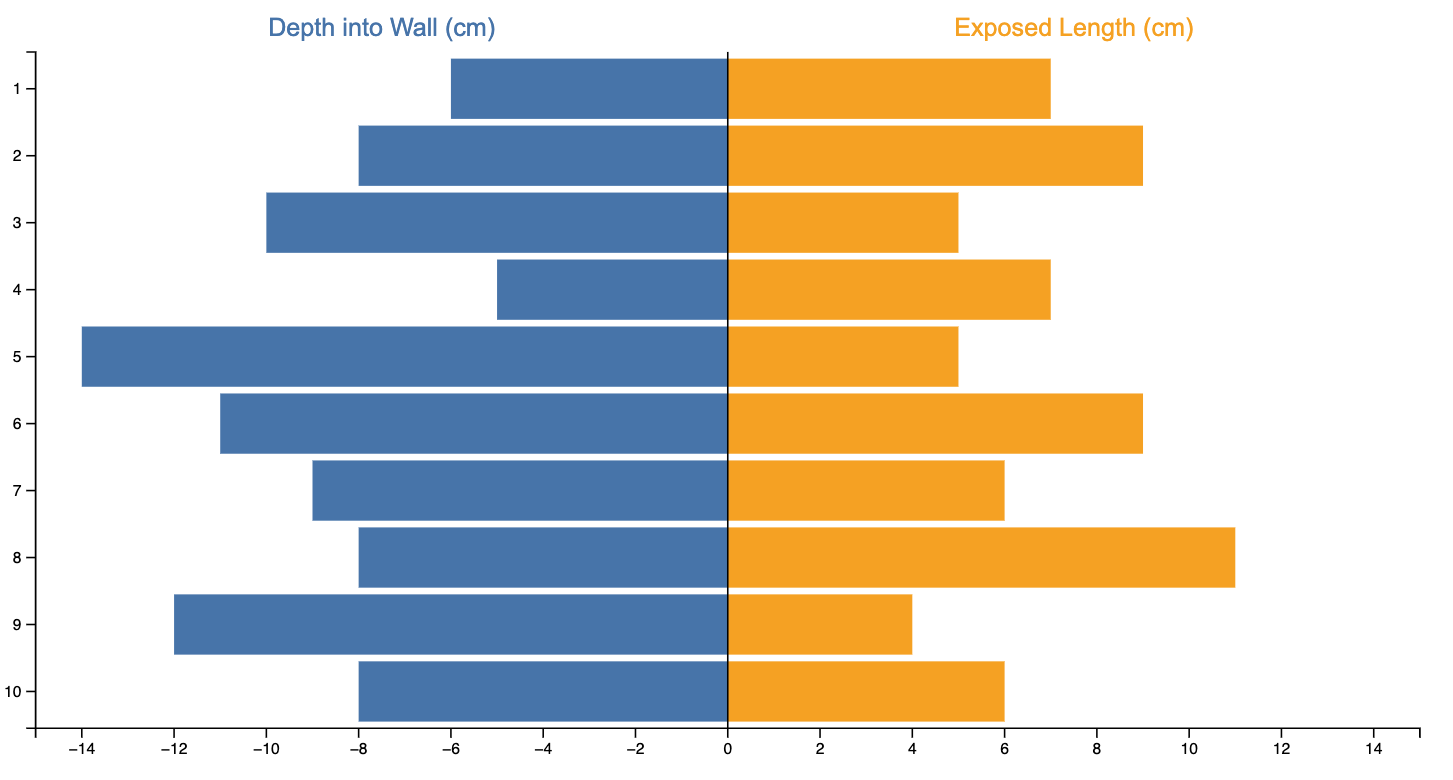
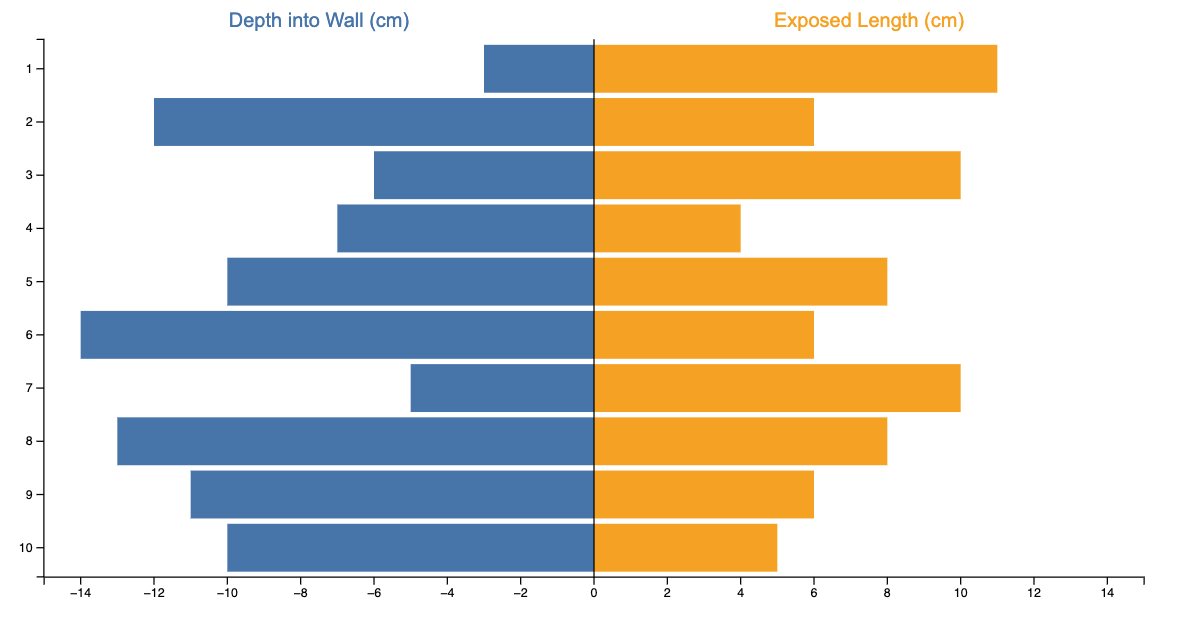
added butterfly

diff --git a/dist/bundle.js b/dist/bundle.js
@@ -10,13 +10,13 @@
 /******/ 	"use strict";
 /******/ 	var __webpack_modules__ = ({
 
-/***/ "./bar/main.ts":
-/*!*********************!*\
-  !*** ./bar/main.ts ***!
-  \*********************/
+/***/ "./butterfly/main.ts":
+/*!***************************!*\
+  !*** ./butterfly/main.ts ***!
+  \***************************/
 /***/ (function(__unused_webpack_module, exports, __webpack_require__) {
 
-eval("\nvar __createBinding = (this && this.__createBinding) || (Object.create ? (function(o, m, k, k2) {\n    if (k2 === undefined) k2 = k;\n    var desc = Object.getOwnPropertyDescriptor(m, k);\n    if (!desc || (\"get\" in desc ? !m.__esModule : desc.writable || desc.configurable)) {\n      desc = { enumerable: true, get: function() { return m[k]; } };\n    }\n    Object.defineProperty(o, k2, desc);\n}) : (function(o, m, k, k2) {\n    if (k2 === undefined) k2 = k;\n    o[k2] = m[k];\n}));\nvar __setModuleDefault = (this && this.__setModuleDefault) || (Object.create ? (function(o, v) {\n    Object.defineProperty(o, \"default\", { enumerable: true, value: v });\n}) : function(o, v) {\n    o[\"default\"] = v;\n});\nvar __importStar = (this && this.__importStar) || function (mod) {\n    if (mod && mod.__esModule) return mod;\n    var result = {};\n    if (mod != null) for (var k in mod) if (k !== \"default\" && Object.prototype.hasOwnProperty.call(mod, k)) __createBinding(result, mod, k);\n    __setModuleDefault(result, mod);\n    return result;\n};\nvar __importDefault = (this && this.__importDefault) || function (mod) {\n    return (mod && mod.__esModule) ? mod : { \"default\": mod };\n};\nObject.defineProperty(exports, \"__esModule\", ({ value: true }));\nconst d3 = __importStar(__webpack_require__(/*! d3 */ \"./node_modules/d3/src/index.js\"));\nconst phase2_json_1 = __importDefault(__webpack_require__(/*! ./phase2.json */ \"./bar/phase2.json\"));\nconst margin = { top: 20, right: 30, bottom: 40, left: 90 };\nconst width = 960 - margin.left - margin.right;\nconst height = 500 - margin.top - margin.bottom;\nconst svg = d3.select('#bar')\n    .append('svg')\n    .attr('width', width + margin.left + margin.right)\n    .attr('height', height + margin.top + margin.bottom)\n    .append('g')\n    .attr('transform', `translate(${margin.left},${margin.top})`);\n// Set the y scale based on the maximum height in the data\nconst y = d3.scaleLinear()\n    .domain([0, d3.max(phase2_json_1.default, (d) => d['Height (meters)'])])\n    .range([height, 0]);\n// Set the x scale using band scale for categorical data\nconst x = d3.scaleBand()\n    .range([0, width])\n    .domain(phase2_json_1.default.map((d) => d['Building Name']))\n    .padding(0.1);\nsvg.append('g')\n    .selectAll('rect')\n    .data(phase2_json_1.default)\n    .enter()\n    .append('rect')\n    .attr('x', (d) => x(d['Building Name']))\n    .attr('y', (d) => y(d['Height (meters)']))\n    .attr('width', x.bandwidth())\n    .attr('height', (d) => height - y(d['Height (meters)']))\n    .attr('fill', '#69b3a2');\n// Add y-axis with linear scale\nsvg.append('g')\n    .call(d3.axisLeft(y))\n    .selectAll('text')\n    .style('font-size', '14px');\n// Add x-axis with band scale\nsvg.append('g')\n    .attr('transform', `translate(0,${height})`)\n    .call(d3.axisBottom(x))\n    .selectAll('text')\n    .style('font-size', '14px')\n    .attr('y', 10)\n    .attr('x', -5)\n    .attr('dy', '.35em')\n    .attr('transform', 'rotate(0)')\n    .attr('transform', 'translate(50,0)')\n    .style('text-anchor', 'end');\n\n\n//# sourceURL=webpack://analogyvis/./bar/main.ts?");
+eval("\nvar __createBinding = (this && this.__createBinding) || (Object.create ? (function(o, m, k, k2) {\n    if (k2 === undefined) k2 = k;\n    var desc = Object.getOwnPropertyDescriptor(m, k);\n    if (!desc || (\"get\" in desc ? !m.__esModule : desc.writable || desc.configurable)) {\n      desc = { enumerable: true, get: function() { return m[k]; } };\n    }\n    Object.defineProperty(o, k2, desc);\n}) : (function(o, m, k, k2) {\n    if (k2 === undefined) k2 = k;\n    o[k2] = m[k];\n}));\nvar __setModuleDefault = (this && this.__setModuleDefault) || (Object.create ? (function(o, v) {\n    Object.defineProperty(o, \"default\", { enumerable: true, value: v });\n}) : function(o, v) {\n    o[\"default\"] = v;\n});\nvar __importStar = (this && this.__importStar) || function (mod) {\n    if (mod && mod.__esModule) return mod;\n    var result = {};\n    if (mod != null) for (var k in mod) if (k !== \"default\" && Object.prototype.hasOwnProperty.call(mod, k)) __createBinding(result, mod, k);\n    __setModuleDefault(result, mod);\n    return result;\n};\nvar __importDefault = (this && this.__importDefault) || function (mod) {\n    return (mod && mod.__esModule) ? mod : { \"default\": mod };\n};\nObject.defineProperty(exports, \"__esModule\", ({ value: true }));\nconst d3 = __importStar(__webpack_require__(/*! d3 */ \"./node_modules/d3/src/index.js\"));\nconst phase2_json_1 = __importDefault(__webpack_require__(/*! ./phase2.json */ \"./butterfly/phase2.json\"));\n// Set up the SVG canvas dimensions\nconst margin = { top: 30, right: 40, bottom: 40, left: 40 };\nconst width = 960 - margin.left - margin.right;\nconst height = 500 - margin.top - margin.bottom;\nconst svg = d3.select('#butterfly')\n    .append('svg')\n    .attr('width', width + margin.left + margin.right)\n    .attr('height', height + margin.top + margin.bottom)\n    .append('g')\n    .attr('transform', `translate(${margin.left},${margin.top})`);\n// Process the data\nconst data = phase2_json_1.default.map(d => ({\n    nailID: d.nailID,\n    totalLength: +d.totalLength,\n    depthBelowSurface: +d.depthBelowSurface,\n    lengthAboveSurface: +d.lengthAboveSurface\n}));\n// Define scales\n// xScale: from -15 to 15, with 0 in the center\nconst maxDepth = d3.max(data, d => d.depthBelowSurface);\nconst maxLength = d3.max(data, d => d.lengthAboveSurface);\nconst maxValue = Math.max(maxDepth, maxLength, 15); // Ensure axis extends to at least 15\nconst xScale = d3.scaleLinear()\n    .domain([-maxValue, maxValue])\n    .range([0, width]);\n// yScale: Each nailID along the vertical axis\nconst yScale = d3.scaleBand()\n    .domain(data.map(d => d.nailID.toString()))\n    .range([0, height])\n    .padding(0.1);\n// Define left and right colors\nconst depthColor = 'steelblue'; // Left side (negative values)\nconst lengthColor = 'orange'; // Right side (positive values)\n// Add x-axis\nconst xAxis = d3.axisBottom(xScale)\n    .ticks(10);\nsvg.append('g')\n    .attr('transform', `translate(0,${height})`)\n    .call(xAxis);\n// Add y-axis\nconst yAxis = d3.axisLeft(yScale);\nsvg.append('g')\n    .call(yAxis);\n// Draw the bars for depthBelowSurface (left side)\nsvg.selectAll('.bar-depth')\n    .data(data)\n    .enter()\n    .append('rect')\n    .attr('class', 'bar-depth')\n    .attr('x', d => xScale(-d.depthBelowSurface))\n    .attr('y', d => yScale(d.nailID.toString()))\n    .attr('width', d => xScale(0) - xScale(-d.depthBelowSurface))\n    .attr('height', yScale.bandwidth())\n    .attr('fill', depthColor);\n// Draw the bars for lengthAboveSurface (right side)\nsvg.selectAll('.bar-length')\n    .data(data)\n    .enter()\n    .append('rect')\n    .attr('class', 'bar-length')\n    .attr('x', xScale(0))\n    .attr('y', d => yScale(d.nailID.toString()))\n    .attr('width', d => xScale(d.lengthAboveSurface) - xScale(0))\n    .attr('height', yScale.bandwidth())\n    .attr('fill', lengthColor);\n// Add a vertical line at x = 0 (the central axis)\nsvg.append('line')\n    .attr('x1', xScale(0))\n    .attr('y1', 0)\n    .attr('x2', xScale(0))\n    .attr('y2', height)\n    .attr('stroke', 'black')\n    .attr('stroke-width', 1);\n// Optional: Add titles for each side\nsvg.append('text')\n    .attr('x', xScale(-maxValue / 2))\n    .attr('y', -10)\n    .attr('text-anchor', 'middle')\n    .attr('fill', depthColor)\n    .text('Depth into Wall (cm)');\nsvg.append('text')\n    .attr('x', xScale(maxValue / 2))\n    .attr('y', -10)\n    .attr('text-anchor', 'middle')\n    .attr('fill', lengthColor)\n    .text('Exposed Length (cm)');\n\n\n//# sourceURL=webpack://analogyvis/./butterfly/main.ts?");
 
 /***/ }),
 
@@ -5680,13 +5680,13 @@ eval("__webpack_require__.r(__webpack_exports__);\n/* harmony export */ __webpac
 
 /***/ }),
 
-/***/ "./bar/phase2.json":
-/*!*************************!*\
-  !*** ./bar/phase2.json ***!
-  \*************************/
+/***/ "./butterfly/phase2.json":
+/*!*******************************!*\
+  !*** ./butterfly/phase2.json ***!
+  \*******************************/
 /***/ ((module) => {
 
-eval("module.exports = /*#__PURE__*/JSON.parse('[{\"Building Name\":\"Zenith Tower\",\"Height (meters)\":265},{\"Building Name\":\"Horizon Plaza\",\"Height (meters)\":123},{\"Building Name\":\"Pinnacle Heights\",\"Height (meters)\":350},{\"Building Name\":\"Apex Tower\",\"Height (meters)\":279},{\"Building Name\":\"Summit Place\",\"Height (meters)\":148},{\"Building Name\":\"Vista Building\",\"Height (meters)\":213}]');\n\n//# sourceURL=webpack://analogyvis/./bar/phase2.json?");
+eval("module.exports = /*#__PURE__*/JSON.parse('[{\"nailID\":1,\"totalLength\":14,\"depthBelowSurface\":3,\"lengthAboveSurface\":11},{\"nailID\":2,\"totalLength\":18,\"depthBelowSurface\":12,\"lengthAboveSurface\":6},{\"nailID\":3,\"totalLength\":16,\"depthBelowSurface\":6,\"lengthAboveSurface\":10},{\"nailID\":4,\"totalLength\":11,\"depthBelowSurface\":7,\"lengthAboveSurface\":4},{\"nailID\":5,\"totalLength\":18,\"depthBelowSurface\":10,\"lengthAboveSurface\":8},{\"nailID\":6,\"totalLength\":20,\"depthBelowSurface\":14,\"lengthAboveSurface\":6},{\"nailID\":7,\"totalLength\":15,\"depthBelowSurface\":5,\"lengthAboveSurface\":10},{\"nailID\":8,\"totalLength\":21,\"depthBelowSurface\":13,\"lengthAboveSurface\":8},{\"nailID\":9,\"totalLength\":17,\"depthBelowSurface\":11,\"lengthAboveSurface\":6},{\"nailID\":10,\"totalLength\":15,\"depthBelowSurface\":10,\"lengthAboveSurface\":5}]');\n\n//# sourceURL=webpack://analogyvis/./butterfly/phase2.json?");
 
 /***/ })
 
@@ -5750,7 +5750,7 @@ eval("module.exports = /*#__PURE__*/JSON.parse('[{\"Building Name\":\"Zenith Tow
 /******/ 	// startup
 /******/ 	// Load entry module and return exports
 /******/ 	// This entry module is referenced by other modules so it can't be inlined
-/******/ 	var __webpack_exports__ = __webpack_require__("./bar/main.ts");
+/******/ 	var __webpack_exports__ = __webpack_require__("./butterfly/main.ts");
 /******/ 	
 /******/ })()
 ;
